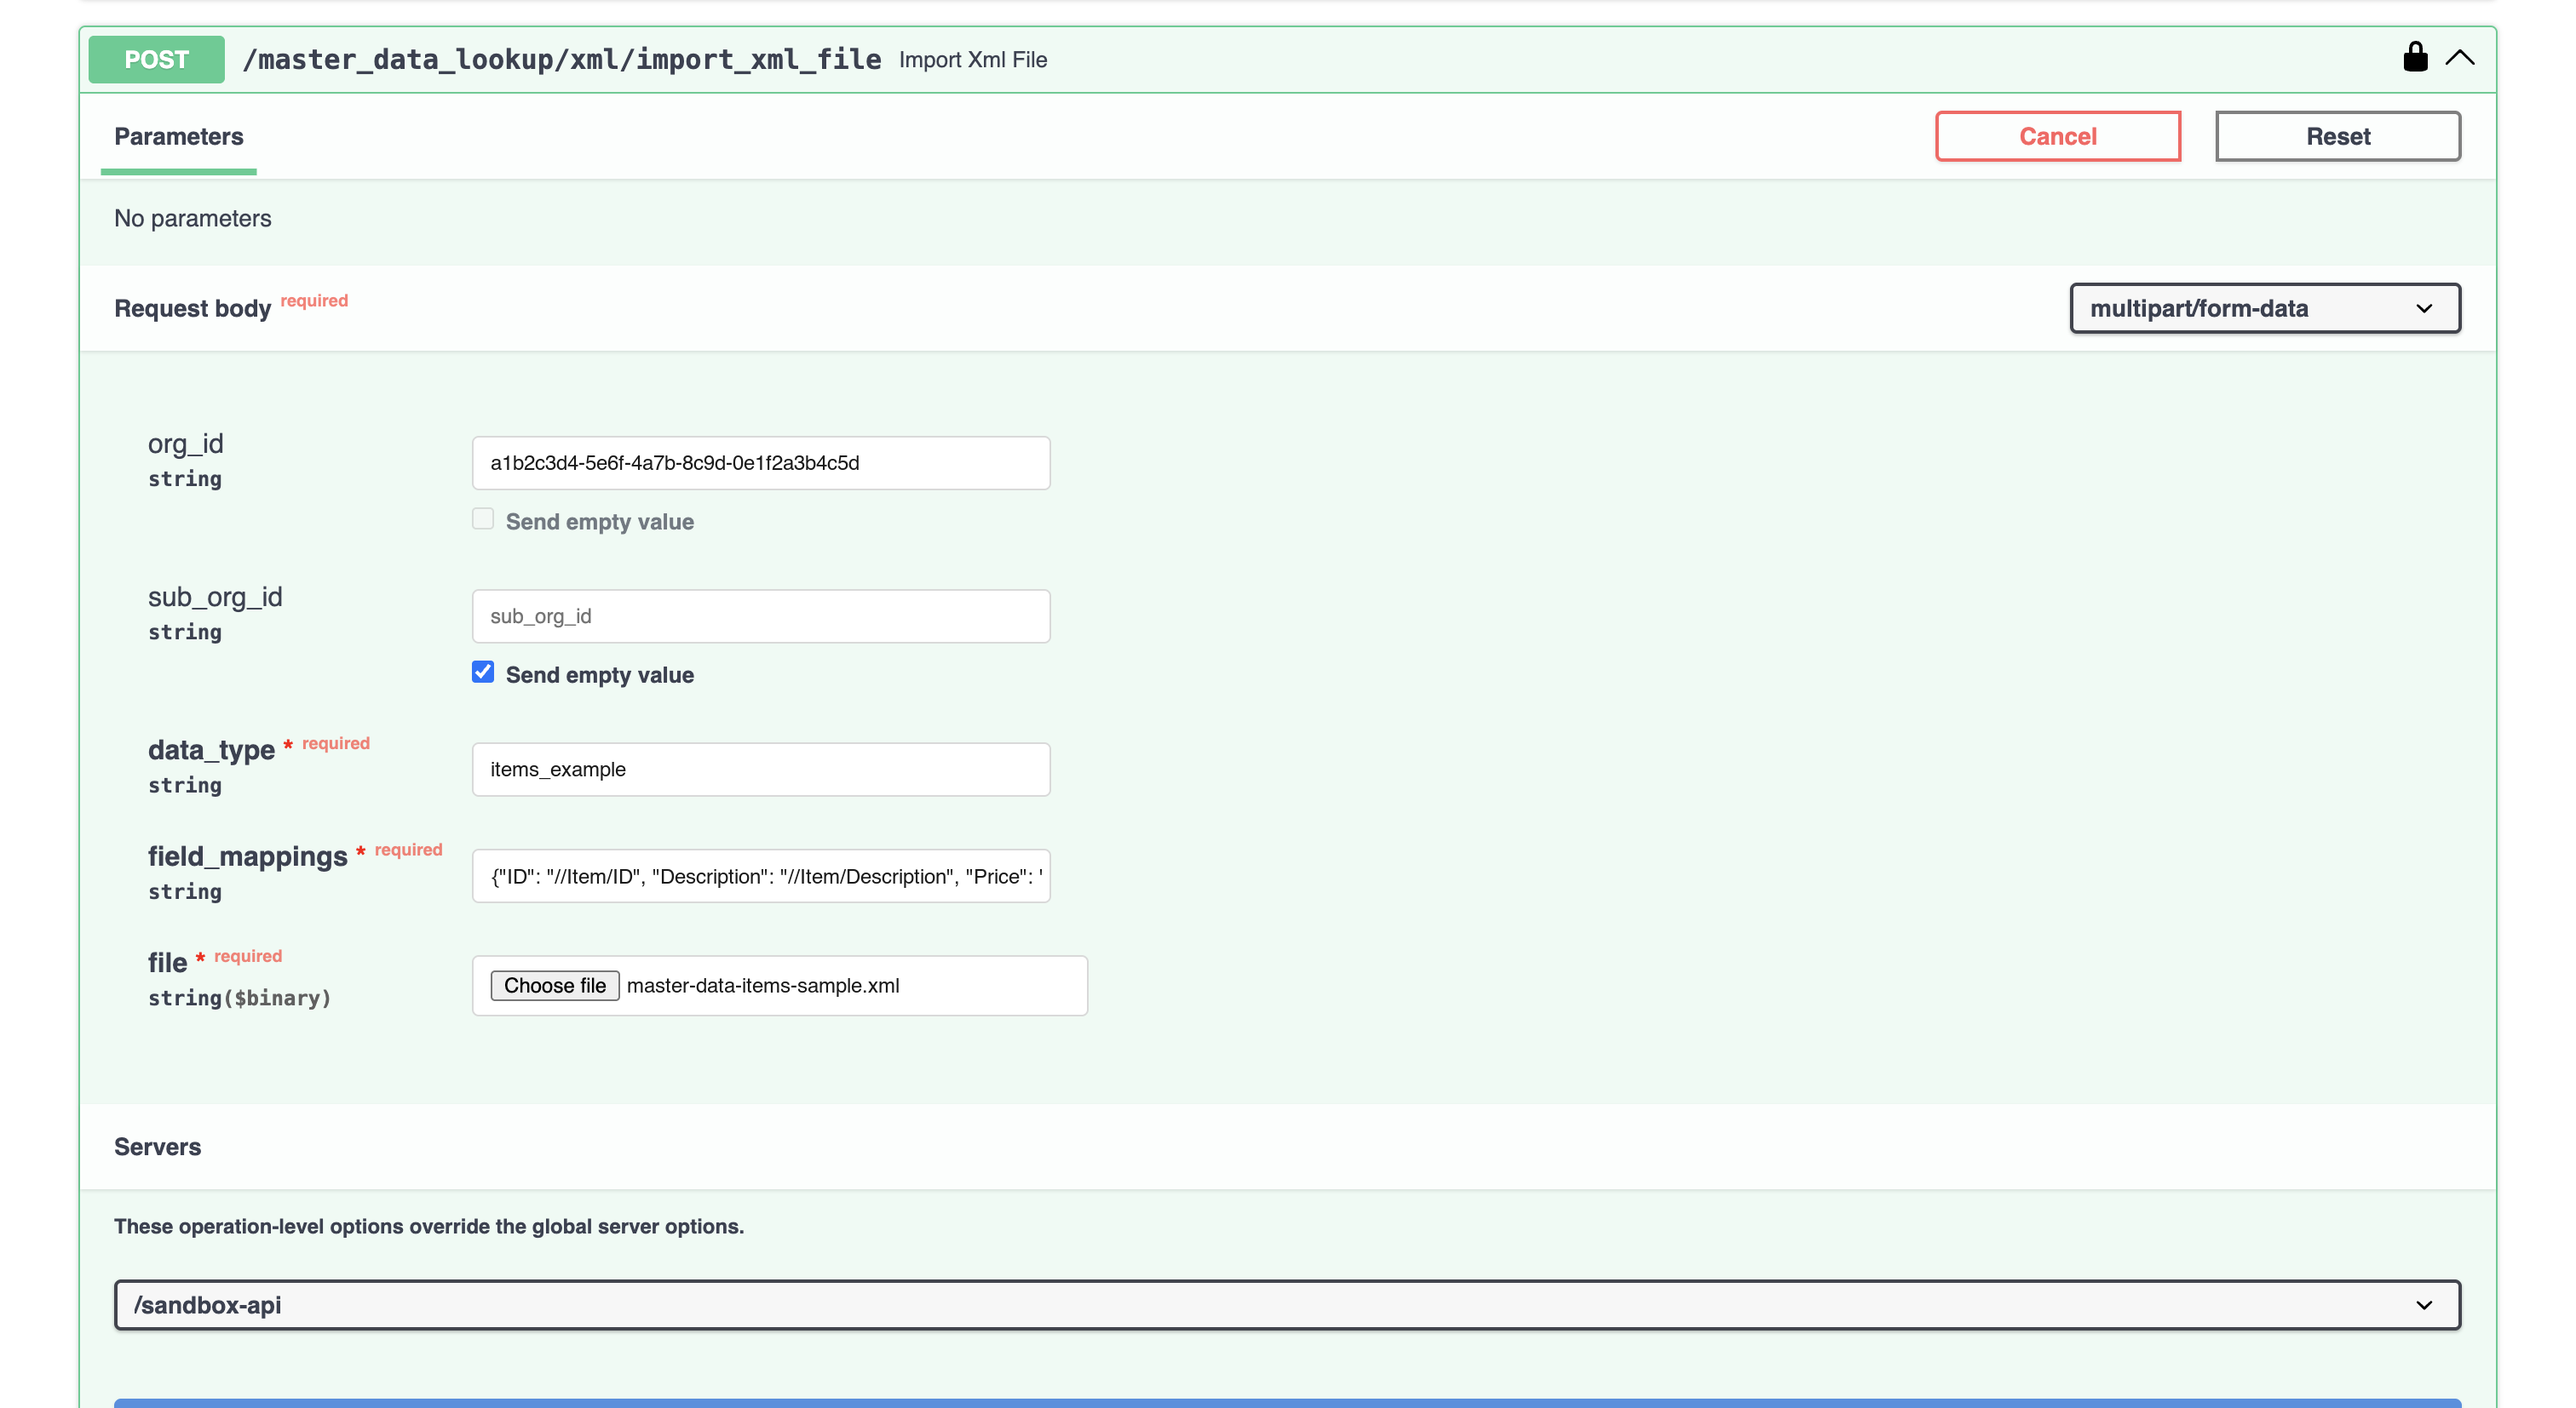
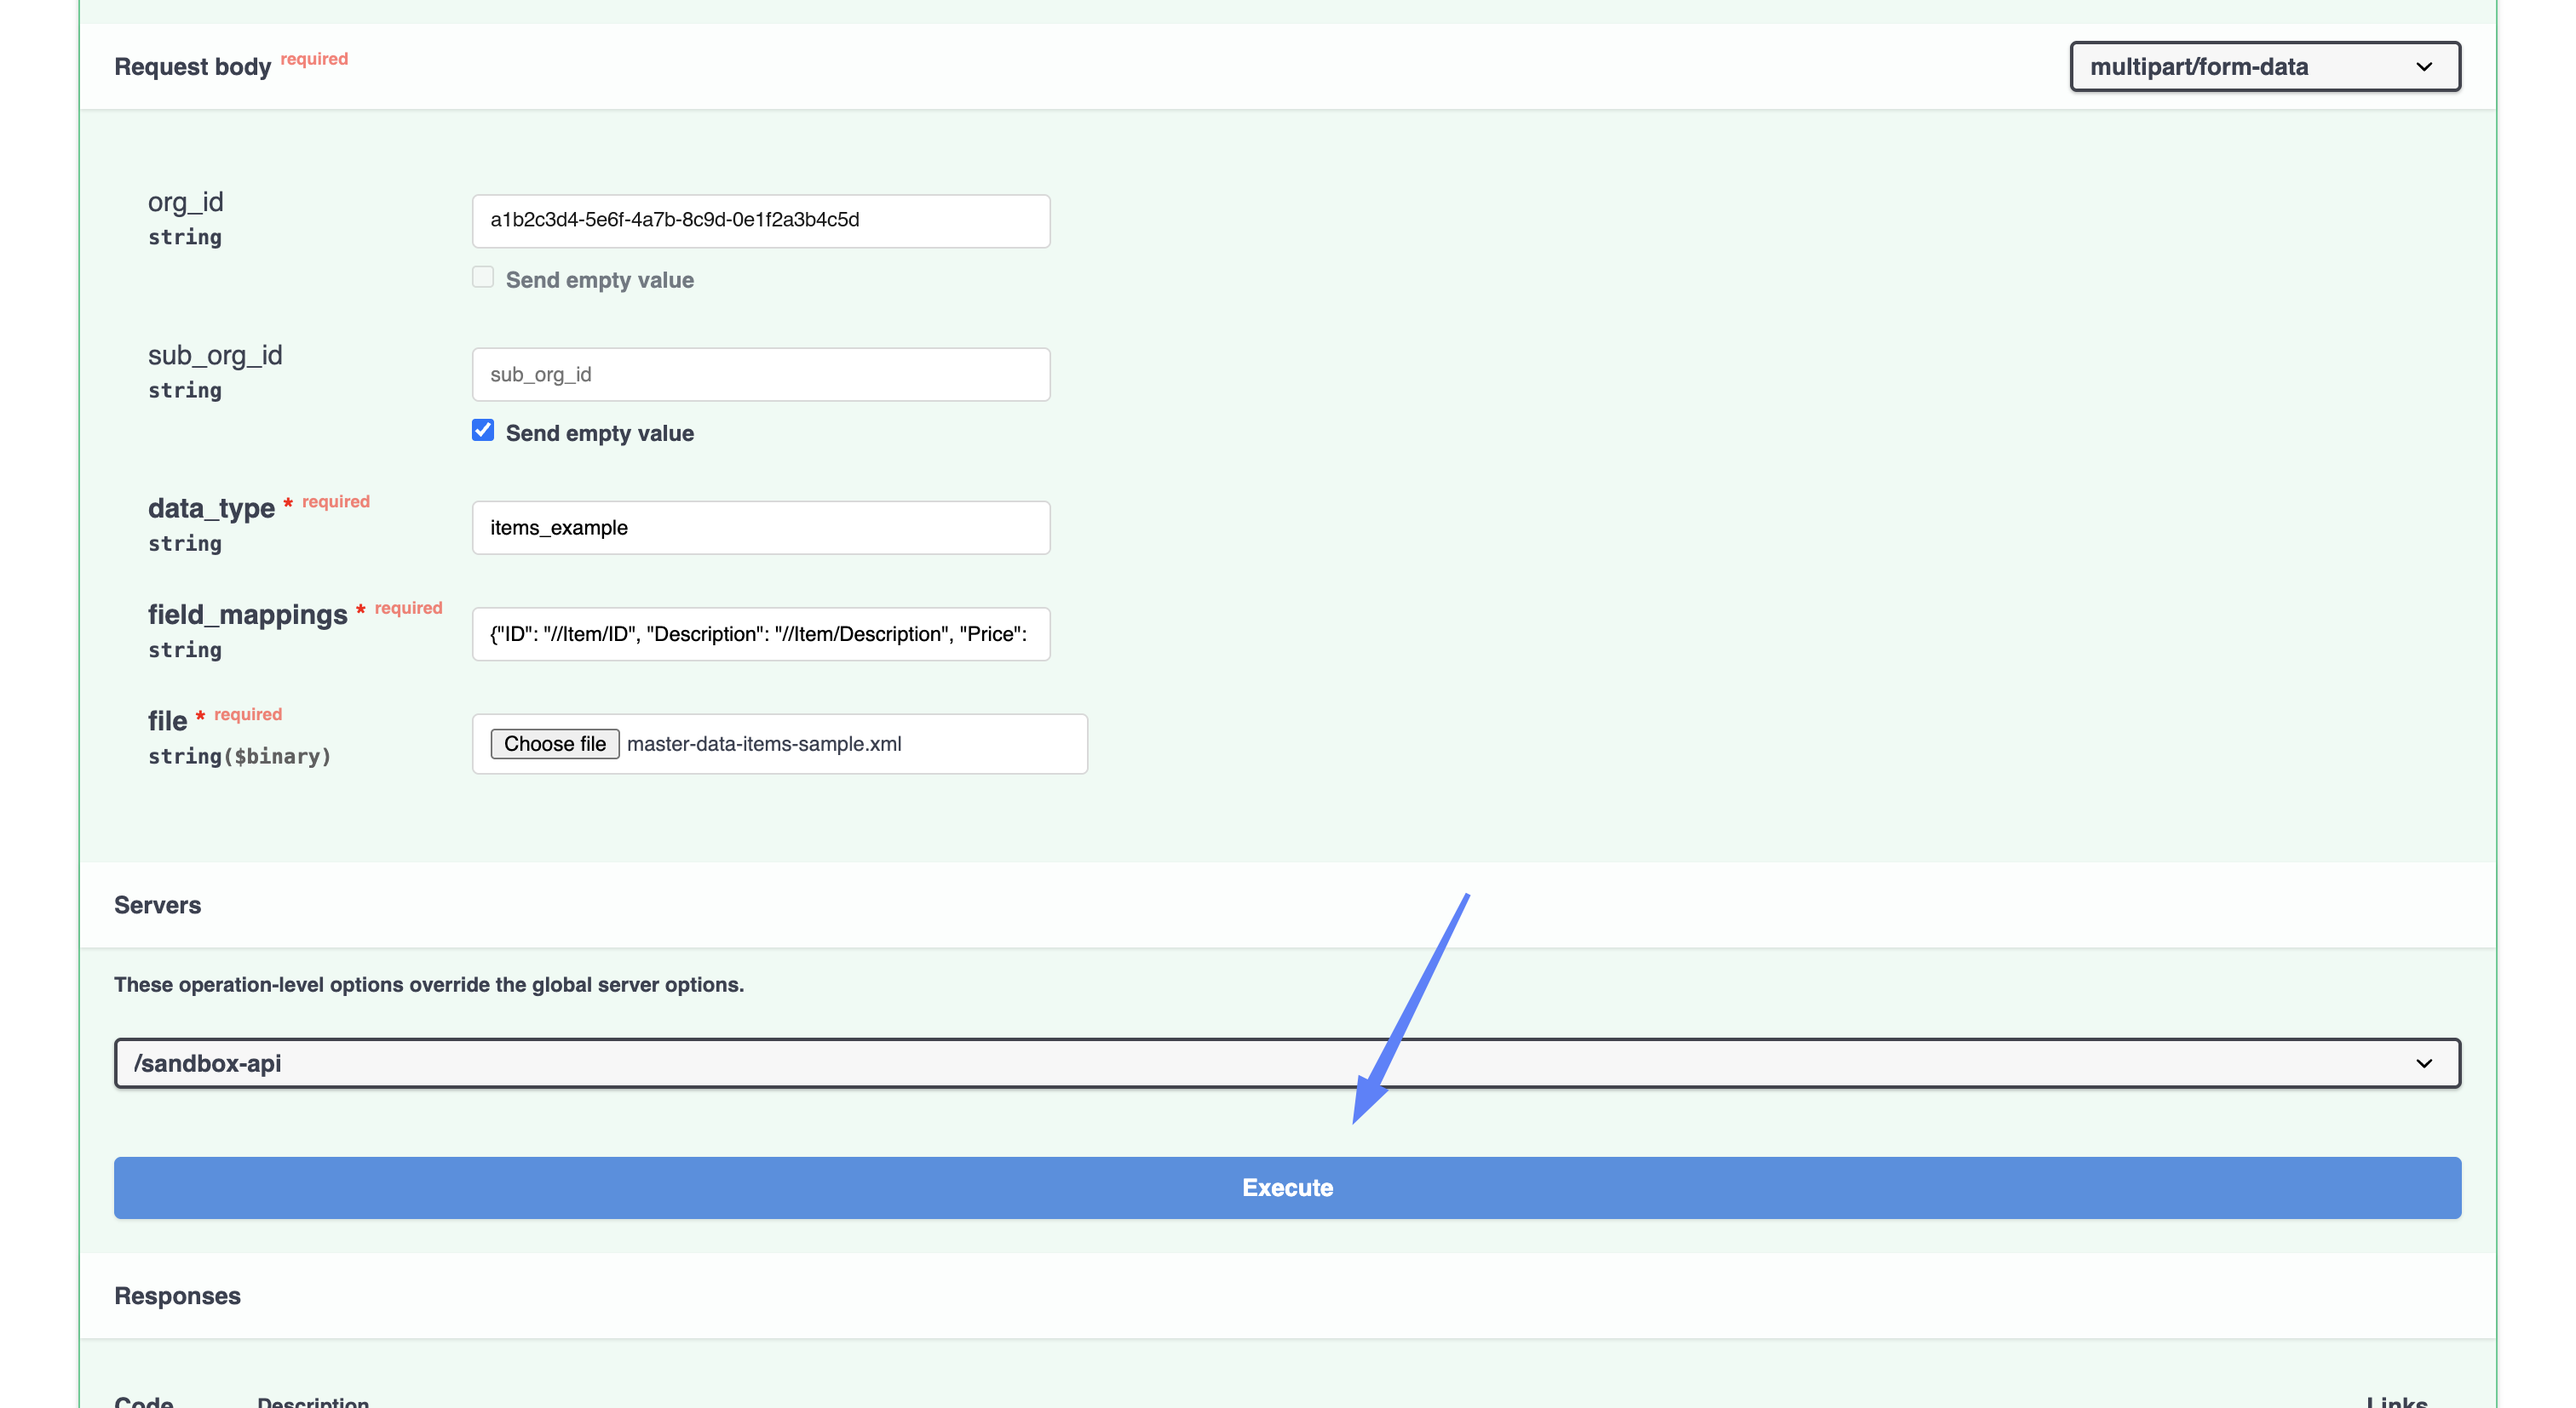
[Docs_Integration_Import] [DOCB-14505] Use the real master data import screenshots
Replaces the request form I had filled in by hand with the genuine one,
and adds the server response. The live run confirms the response the page
now documents: {"success": true, "message": "Record(s) created/updated
successfully"} — not the records_inserted/records_updated dict that was
there before.

API key and org ID redacted in both, as before.

diff --git a/readme/infor-integration-and-configuration/importing-customer-master-data/importing-via-the-api/master-data-xml.md b/readme/infor-integration-and-configuration/importing-customer-master-data/importing-via-the-api/master-data-xml.md
@@ -135,6 +135,8 @@ Click **Execute**. A successful import returns:
 }
 ```
 
+<figure><img src="../../../.gitbook/assets/import-xml-response.png" alt="The curl command and the server response"><figcaption><p>A successful master data import</p></figcaption></figure>
+
 Unlike the BOD imports, these endpoints report problems with a proper error status rather than a `200` carrying `"success": false` — a **400** means the request was rejected and nothing was written.
 
 ### 5. Check that the data arrived
